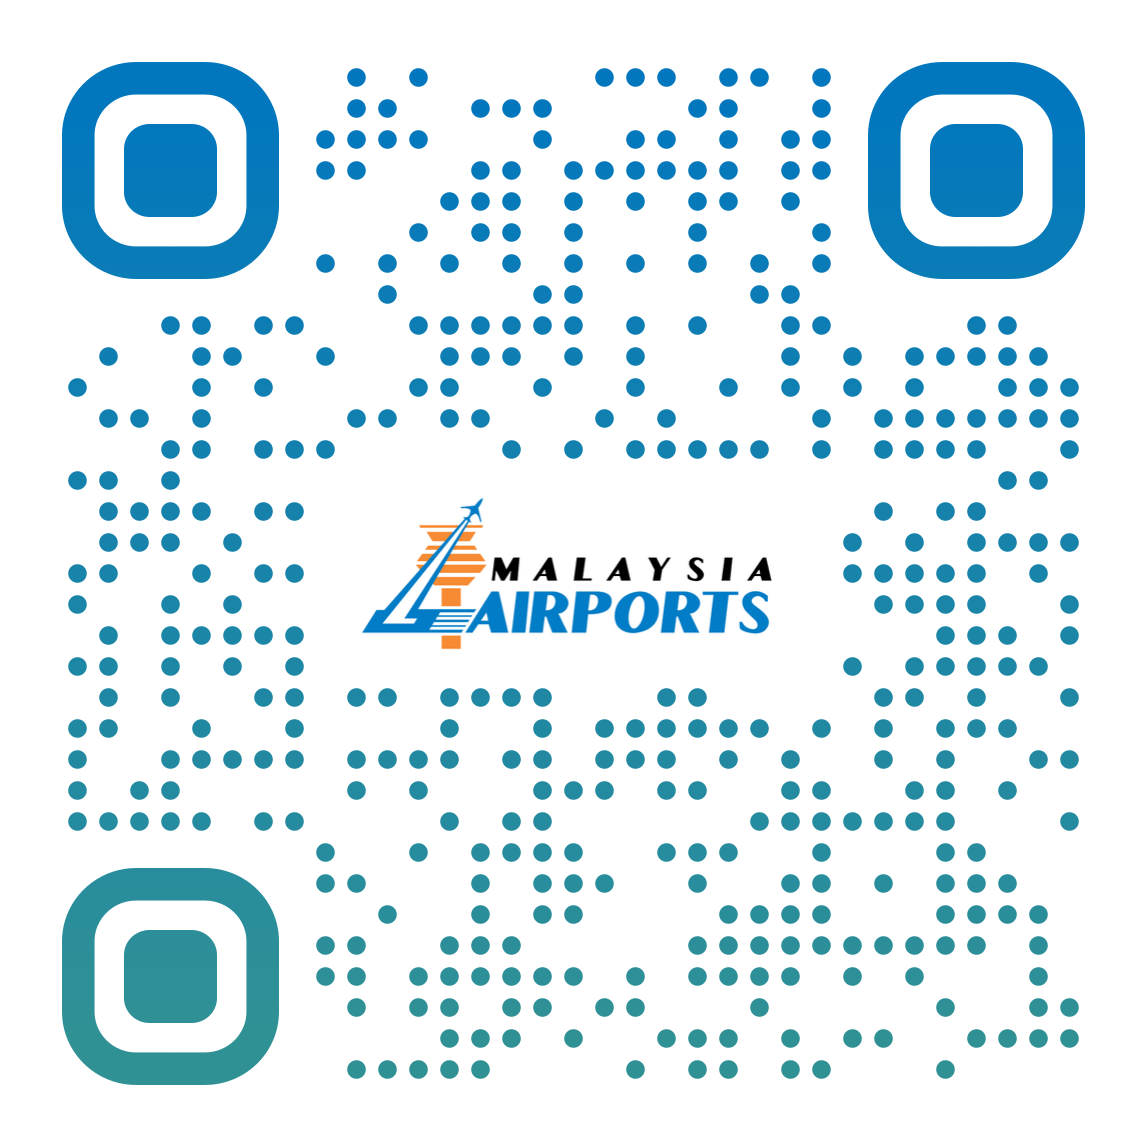
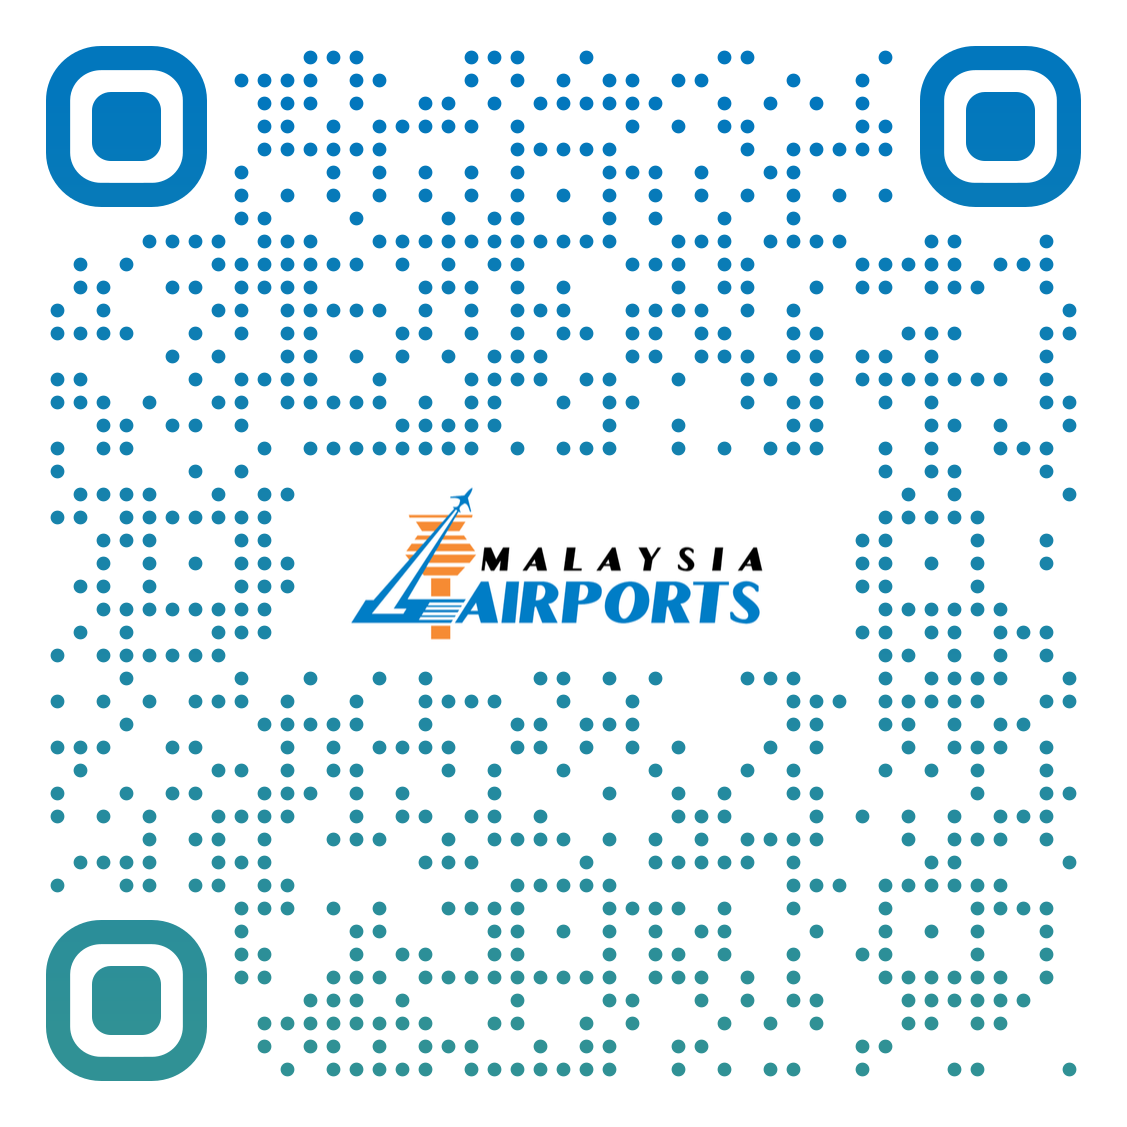
Modifying QR Code images for profiles

Changed region(s): [[0.0311, 0.0311, 0.9627, 0.9627], [0.3106, 0.4348, 0.6832, 0.559]]

diff --git a/profiles/khairiah.html b/profiles/khairiah.html
@@ -138,7 +138,7 @@
                         </div>
                         <div class="modal-body text-center">
                           <h1 class="small text-gray-700">QR Code to Ir. Khairiah's Digital Card</h1>
-                          <img class="img-fluid" src="../assets/qrcode/qr-redha.png" alt="qr-redha">
+                          <img class="img-fluid" src="../assets/qrcode/qr-khairiah.png" alt="qr-khairiah">
                         </div>
                         <div class="modal-footer">
                           <button class="btn btn-primary" style="border-radius: 10rem;" type="button" data-dismiss="modal">Done</button>
